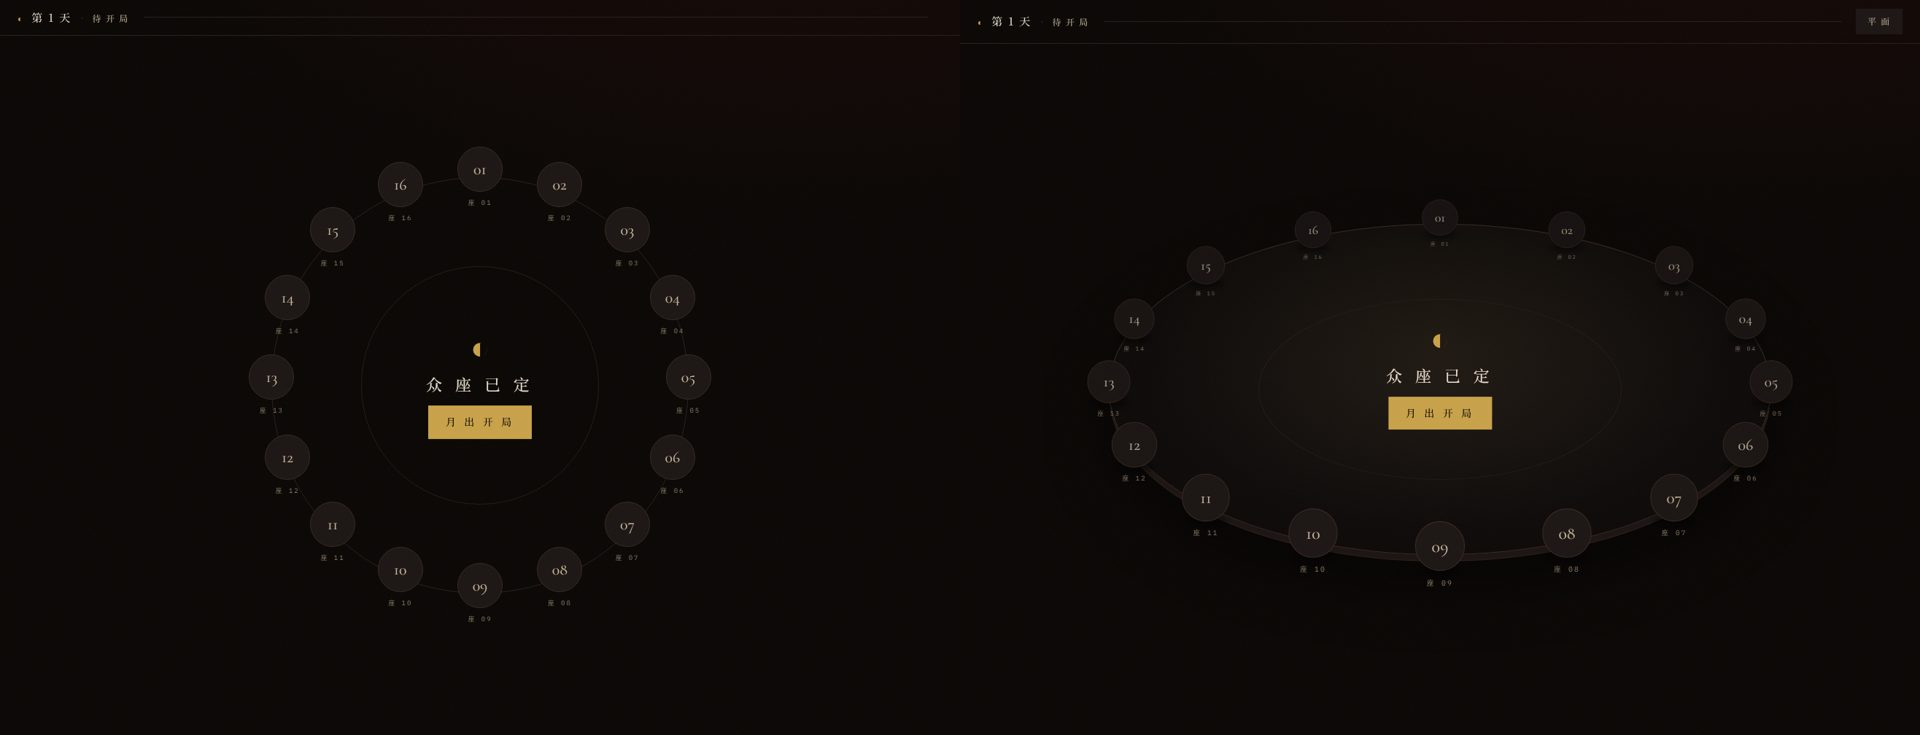
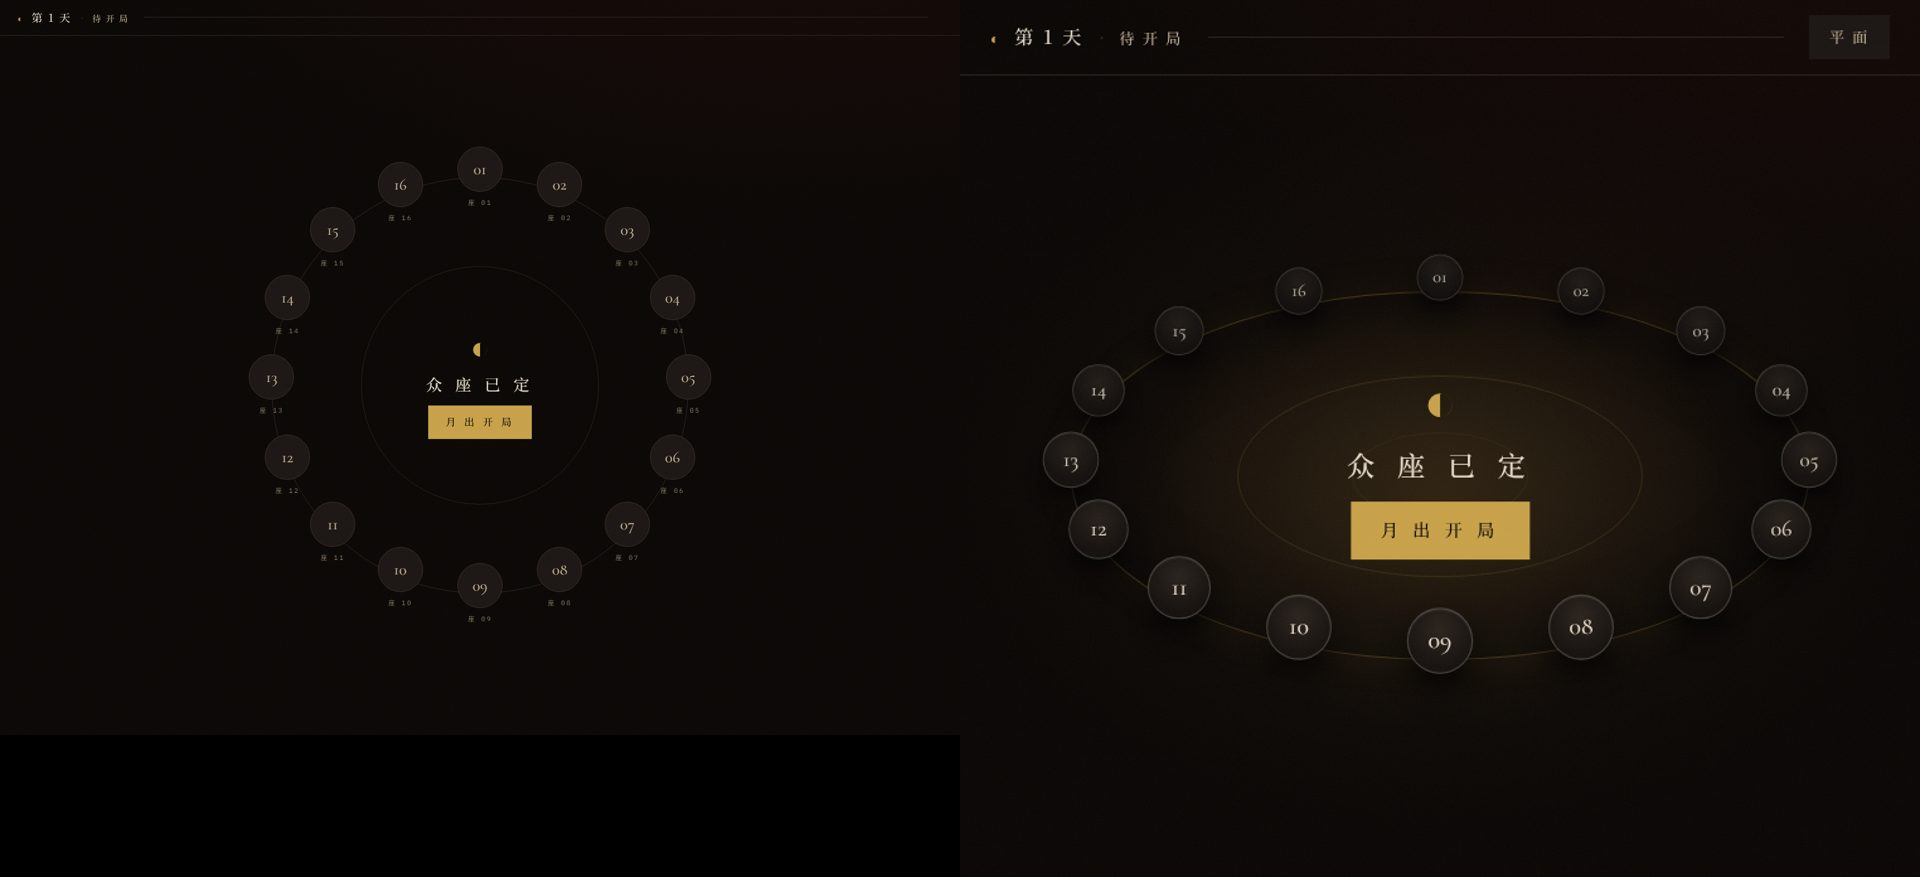
exp: 按宣传片质感重做 3D 圆桌视觉层并更新补丁
1. **起因**：所有者觉得第一版原型不如宣传片精致；并排对比后确认差距在视觉层
2. **台面与氛围**：去掉实心盘，只留发丝金线；桌下加按阶段变化的氛围光（白昼暖、夜里冷蓝、投票泛红）
3. **圆章**：直径按桌宽和人数缩放（cqw），16 人局不挤；13 人以上隐藏重复标签
4. **状态与投票**：发言、等待、选中、领先座位加辉光和台面光斑；投票改为发光实线弧，领先者染红，目标端带圆点
5. **动效**：座位依次落座，弧线描出；减少动态效果时关闭
6. **验证**：shoot.mjs 新增白天发言状态；重拍全部对照图，新增宣传片与产品的对比图；README 记录差距表与修复过程

Claude-Session: https://claude.ai/code/session_01JagXYNx6kv4hx4difPgkbz

diff --git a/experiments/2026-11-05-wolfai-arena3d/README.md b/experiments/2026-11-05-wolfai-arena3d/README.md
@@ -39,17 +39,32 @@
 - **能切回 2D**：阶段栏加“平面 / 立体”按钮，选择记在 `localStorage` 的 `wk.arena.mode`。屏宽 ≤640px 自动用 2D，手机宽度下椭圆桌的座位会挤。
 - **没有搬过来的**：宣传片里的夜间行动弧线（狼刀、守卫、查验）。这些在产品里是秘密信息，只有上帝视角能看；要做的话应该作为上帝视角的单独功能另议。
 
+## 第一版原型被评“不如宣传片精致”，按片子的质感重做
+
+所有者看了第一版原型的截图后说“为啥感觉不如宣传片里面的精致”。把宣传片帧和产品截图并排看（`shots/trailer-vs-product.jpg`），差距在视觉层，不在几何：
+
+| | 宣传片 | 第一版原型 | 第二版怎么改 |
+|---|---|---|---|
+| 台面 | 只有两圈发丝金线，浮在光里 | 深色实心盘加灰边，像一块浑浊的板 | 去掉填色和厚度，留金线，内圈再加一道更淡的线 |
+| 氛围 | 夜里深蓝、白昼暖色，有光晕 | 底色一成不变 | 桌下加按阶段变的氛围光：白昼暖金、夜里冷蓝、投票泛红；夜里金线也转冷 |
+| 座位 | 大号圆章，号码清楚 | 62px 小圆、9px 标签 | 圆章直径按桌宽 × 人数（`cqw`，6 人约 85px，16 人约 50px），号码随直径缩放，标签放大 |
+| 状态 | 目标座位的描边发红、发金光 | 几乎不发光 | 发言、等待、选中、票数领先时描边发光，脚下台面亮起光斑；发言者轻微抬起 |
+| 投票线 | 发光实线，优雅上拱 | 灰蓝细虚线，外鼓得别扭 | 发光实线弧，从圆章边缘向上拱起；领先者的弧线染红，目标端带圆点 |
+| 动效 | 弧线描出，元素弹出 | 全静止 | 座位依次落座、弧线从投票者描向目标；`prefers-reduced-motion` 时关闭 |
+
+宣传片里桌子会转、镜头会推，这两样仍然不搬：产品里转动会让点选目标跑掉。
+
 ## 改动（`patch/0001-arena-3d.patch`）
 
-改了 2 个文件，新增 201 行、删除 17 行：
+改了 2 个文件，新增 319 行、删除 18 行：
 
-- `frontend/src/gamePlayUi.js`：新增 `arena3dGeometry`、`getSeatPose3d`、`getPlayerPositionStyle3d`、`getVoteArc3d`。原来的 `getPlayerPositionStyle` 和 `getVoteLineCoords` 不变。
+- `frontend/src/gamePlayUi.js`：新增 `arena3dGeometry`、`arena3dDiscPct`、`getSeatPose3d`、`getPlayerPositionStyle3d`、`getVoteArc3d`。原来的 `getPlayerPositionStyle` 和 `getVoteLineCoords` 不变。
   - 人多时桌面立起来一点：倾角 0.42，9 人以上 0.46，13 人以上 0.5，两侧座位纵向不挤。
 - `frontend/src/views/GamePlay.vue`：
   - 加入切换开关和窄屏判断；
   - 3D 用 16:9 台面，用 CSS 变量传入椭圆半径；
-  - 投票改为 `path` 弧线；
-  - 新增 3D 样式：台面厚度和影子、座位纵深变暗和悬停抬起、夜里台面泛冷光，以及 `prefers-reduced-motion` 处理。
+  - 投票改为 `path` 弧线，新增 `voteLeadSeats`，以及座位的 `has-votes` 和 `is-vote-lead` 状态；
+  - 新增 3D 样式：上表所列，另有 13 人以上隐藏重复的“座 xx”标签。
 
 所有者合入方法（在 wolfai-killer 仓库里）：
 
@@ -61,8 +76,8 @@ git checkout redesign && git am /path/to/0001-arena-3d.patch
 
 在容器里跑真实前后端，台词由宣传片实验的 `tools/mock_llm.py` 驱动。截图脚本在 `tools/`。
 
-- `tools/shoot.mjs`：拍 6 人局投票中、12 人和 16 人待开局三种状态，每种分别用 1920、1366、390 三种宽度。2D 原版、3D 原型、原型切回 2D 各拍一套。
-  - 3D 下 6、12、16 人都不重叠；
+- `tools/shoot.mjs`：拍 6 人局白天发言中、6 人局投票中、12 人和 16 人待开局四种状态，每种分别用 1920、1366、390 三种宽度。2D 原版、3D 原型、原型切回 2D 各拍一套。
+  - 3D 下 6、12、16 人都不重叠。重做时第一轮圆章固定 84px，16 人局在 1366 宽下挤成一团，改为按桌宽 × 人数缩放后复拍通过；同一轮还修了右侧两座纵向对投时弧线甩出桌外的问题。
   - 切回 2D 与原版一致；
   - 390 宽自动回退 2D，切换按钮隐藏。
 - `tools/shoot-player.mjs`：真人坐 3 号开局。

diff --git a/docs/status.md b/docs/status.md
@@ -30,7 +30,7 @@
 - 已完成：同一实验加 AI 配音（Kokoro-82M-v1.1-zh，CPU、无 API Key），旁白时长驱动时间轴，整片 87 秒；用 faster-whisper 转写回听自检。TTS 虚拟环境在 `temp/`，不进仓库，重建方法见实验 `tools/requirements-tts.txt`。
 - 已完成：`experiments/2026-11-03-wolfai-promo/`，给所有者的 wolfai-killer（`redesign` 分支 `88c41e7`）做 41.6 秒横屏宣传片：本地假 LLM 接口驱动剧本局，Playwright 录真实界面，Remotion 合成；录屏脚本独立复跑通过。
 - 已完成：同一实验第二版 `WolfTrailer`（43.2 秒）：按社区产品片做法重做，用 DPR2 高清截图、项目自带 20 张身份美术、3D 屏幕与浮层、动态大字、100 BPM 节拍表驱动的配乐与卡点；不再用旁白。第一版 `WolfPromo` 保留对照。
-- 已完成：`experiments/2026-11-05-wolfai-arena3d/`，所有者提议把宣传片里的 3D 圆桌升级进产品；本地原型通过 6/12/16 人、三种宽度、真人视角与 2D 切换截图验证，补丁 `patch/0001-arena-3d.patch` 可对 `origin/redesign` 干净应用。
+- 已完成：`experiments/2026-11-05-wolfai-arena3d/`，所有者提议把宣传片里的 3D 圆桌升级进产品；本地原型通过 6/12/16 人、三种宽度、真人视角与 2D 切换截图验证，补丁 `patch/0001-arena-3d.patch` 可对 `origin/redesign` 干净应用。所有者嫌第一版原型“不如宣传片精致”，已按片子质感重做视觉层（发丝金线台面、阶段氛围光、按人数缩放的圆章、状态辉光、发光弧线、落座与描线动效），补丁已更新。
 - 已验证事实：所有者对视频的偏好：整页录屏推镜被评为“很机械、没有设计感”，要有设计感的产品片。
 - 已验证事实：所有者 GitHub 主页是 `Dr-Ai-0018`。wolfai-killer 的新版在 `redesign` 分支，`main` 是 5 月的旧界面；本会话对它只有只读权限。
 - 已验证事实：2026-11-02 重新探测环境基线，容器镜像已升级（Python 3.13、uv 0.11、Node 22.23），详见 `docs/references.md`。
